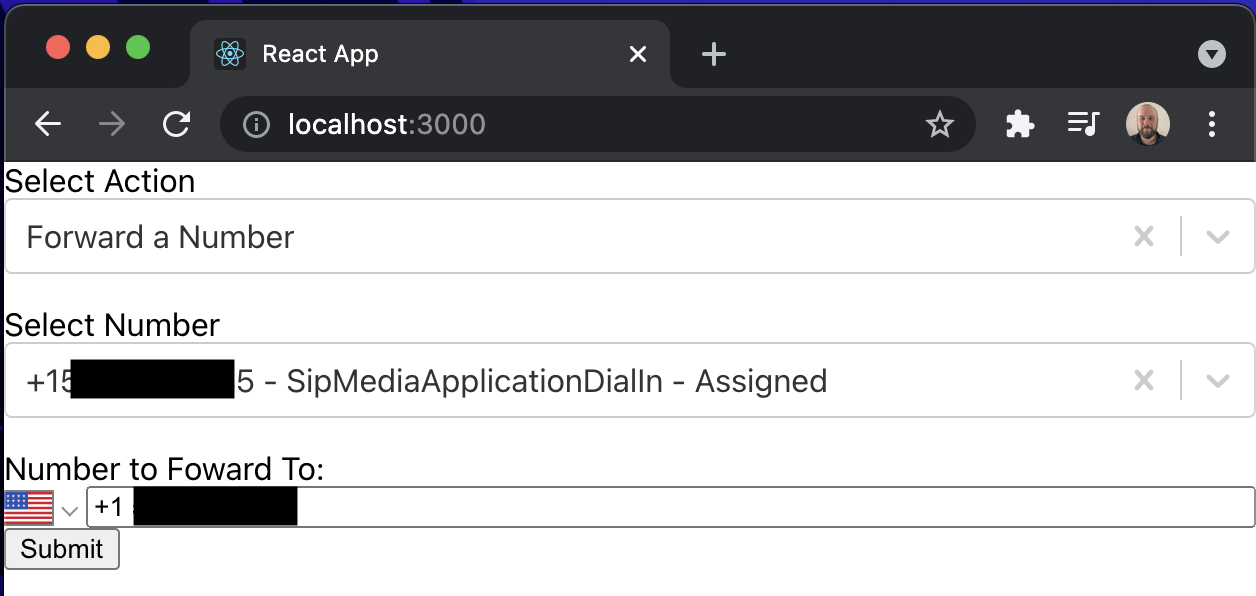
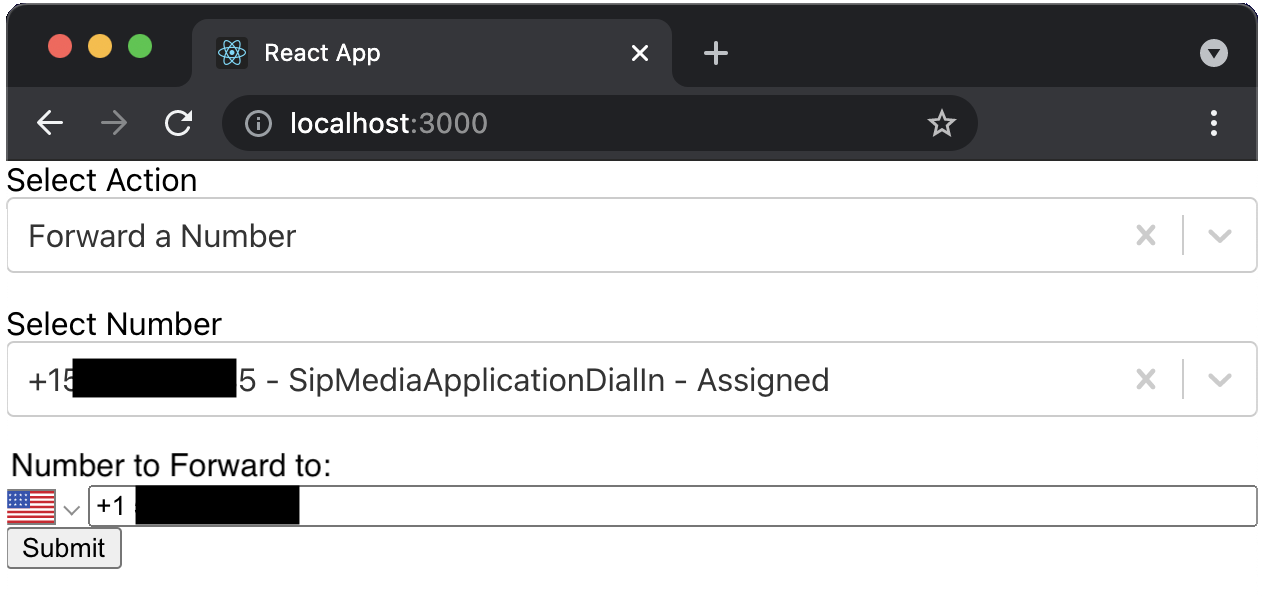
Pythonic improvements, revised diagrams, typo fixes

diff --git a/client/src/App.js b/client/src/App.js
@@ -221,7 +221,7 @@ const App = () => {
 									<div>
 										<form onSubmit={handleSubmitForward}>
 											<label>
-												Number to Foward To:
+												Number to Forward to:
 												<PhoneInput
 													placeholder="Enter phone number"
 													defaultCountry="US"

diff --git a/src/smaLambda/callForwardingSMA.py b/src/smaLambda/callForwardingSMA.py
@@ -18,68 +18,62 @@ from botocore.client import Config
 # Set LogLevel using environment variable, fallback to INFO if not present
 logger = logging.getLogger()
 try:
-    log_level = os.environ["LogLevel"]
-    if log_level not in ["INFO", "DEBUG"]:
-        log_level = "INFO"
+    log_level = os.environ['LogLevel']
+    if log_level not in ['INFO', 'DEBUG']:
+        log_level = 'INFO'
 except:
-    log_level = "INFO"
+    log_level = 'INFO'
 logger.setLevel(log_level)
 
 # Load environment variables
-forwarding_table_name = os.environ["CallForwardingTableName"]
-wav_bucket = os.environ["WavBucketName"]
-loop_flag = os.environ["LoopGreetingWhileRinging"]
+forwarding_table_name = os.environ['CallForwardingTableName']
+wav_bucket = os.environ['WavBucketName']
+loop_flag = os.environ['LoopGreetingWhileRinging']
 
 # Setup DynamoDB interface client to query number mappings
-client_config = Config(connect_timeout=2, read_timeout=2, retries={"max_attempts": 5})
-dynamodb_client = boto3.client("dynamodb", config=client_config, region_name=os.environ["AWS_REGION"])
+client_config = Config(connect_timeout=2, read_timeout=2, retries={'max_attempts': 5})
+dynamodb_client = boto3.client('dynamodb', config=client_config, region_name=os.environ["AWS_REGION"])
 
 
 # This is the entry point for all incoming events from Chime SipMediaApplications
 def lambda_handler(event, context):
 
     # Extract all the elements from the event that we will need for processing
-    event_type = event["InvocationEventType"]
-    participants = event["CallDetails"]["Participants"]
-    call_id = participants[0]["CallId"]
-    to_number = participants[0]["To"]
-    from_number = participants[0]["From"]
+    event_type = event['InvocationEventType']
+    participants = event['CallDetails']['Participants']
+    call_id = participants[0]['CallId']
+    to_number = participants[0]['To']
+    from_number = participants[0]['From']
 
     # For consistent and detail logging, set a prefix format that can be used by all functions
     global log_prefix
-    log_prefix = "Call-ID:{} {} From:[{}] To:[{}]: ".format(call_id, event_type, from_number, to_number)
+    log_prefix = 'Call-ID:{} {} From:[{}] To:[{}]: '.format(call_id, event_type, from_number, to_number)
 
-    if event_type == "NEW_INBOUND_CALL":
-        logger.info("RECV {} {}".format(log_prefix, "New inbound call initiated"))
+    if event_type == 'NEW_INBOUND_CALL':
+        logger.info('RECV {} {}'.format(log_prefix, 'New inbound call initiated'))
         return new_call_handler(call_id, to_number)
 
-    elif event_type == "HANGUP":
-        logger.info("RECV {} {}".format(log_prefix, "Hangup event received"))
+    elif event_type == 'HANGUP':
+        logger.info('RECV {} {}'.format(log_prefix, 'Hangup event received'))
         return hangup_handler(participants)
 
-    elif event_type == "RINGING":
-        logger.info("RECV {} {}".format(log_prefix, "Rining event received"))
+    elif event_type == 'RINGING':
+        logger.info('RECV {} {}'.format(log_prefix, 'Ringing event received'))
         return ()
 
-    elif event_type == "ACTION_SUCCESSFUL":
+    elif event_type == 'ACTION_SUCCESSFUL':
         return action_success_handler(event)
 
-    elif event_type == "ACTION_FAILED":
-        logger.error(
-            "RECV {} {} {} {}".format(
-                log_prefix, event["ActionData"]["ErrorType"], event["ActionData"]["ErrorMessage"], json.dumps(event)
-            )
-        )
+    elif event_type == 'ACTION_FAILED':
+        logger.error('RECV {} {} {} {}'.format(log_prefix, event['ActionData']['ErrorType'], event['ActionData']['ErrorMessage'], json.dumps(event)))
         return unable_to_connect(call_id)
 
-    elif event_type == "INVALID_LAMBDA_RESPONSE":
-        logger.error(
-            "RECV {} : {} : {} : {}".format(log_prefix, event["ErrorType"], event["ErrorMessage"], json.dumps(event))
-        )
+    elif event_type == 'INVALID_LAMBDA_RESPONSE':
+        logger.error('RECV {} : {} : {} : {}'.format(log_prefix, event['ErrorType'], event['ErrorMessage'], json.dumps(event)))
         return unable_to_connect(call_id)
 
     else:
-        logger.error("RECV {} [Unhandled event] {}".format(log_prefix, json.dumps(event)))
+        logger.error('RECV {} [Unhandled event] {}'.format(log_prefix, json.dumps(event)))
         return unable_to_connect(call_id)
 
 
@@ -87,34 +81,27 @@ def new_call_handler(call_id, dialed_number):
     destination_number = ddb_get_destination(dialed_number)
     if destination_number:
 
-        if loop_flag == "True":
+        if loop_flag == 'True':
             # Loop Audio Greeting until Outbound call answers, cut greeting audio as soon as Outbound call answers
-            logger.info("SEND {} {}".format(log_prefix, "Sending CallAndBridge action with greeting ringback"))
-            return respond(
-                call_and_bridge_to_pstn_with_greeting(
-                    dialed_number, destination_number, "please_wait_while_we_try_to_connect_you.wav"
-                )
-            )
+            logger.info('SEND {} {}'.format(log_prefix, 'Sending CallAndBridge action with greeting ringback'))
+            return respond(call_and_bridge_to_pstn_with_greeting(dialed_number, destination_number, 'please_wait_while_we_try_to_connect_you.wav'))
 
         else:
             # Play Audio Greeting fully and then bridge to Outbound PSTN
-            logger.info("SEND {} {}".format(log_prefix, "Sending PlayAudio, CallAndBridge actions"))
-            return respond(
-                play_audio(call_id, "please_wait_while_we_try_to_connect_you.wav"),
-                call_and_bridge_to_pstn(dialed_number, destination_number),
-            )
+            logger.info('SEND {} {}'.format(log_prefix, 'Sending PlayAudio, CallAndBridge actions'))
+            return respond(play_audio(call_id, 'please_wait_while_we_try_to_connect_you.wav'), call_and_bridge_to_pstn(dialed_number, destination_number))
 
     else:
-        logger.info("NONE {} {}".format(log_prefix, "No entry found in database - sending hangup"))
+        logger.info('NONE {} {}'.format(log_prefix, 'No entry found in database - sending hangup'))
         return unable_to_connect(call_id)
 
 
 def hangup_handler(participants):
     # When we receive a hangup event, we make sure to tear down any calls still connected
     for call in participants:
-        if call["Status"] == "Connected":
-            return respond(hangup_action(call["CallId"]))
-    logger.info("NONE {} All calls have been hungup".format(log_prefix))
+        if call['Status'] == 'Connected':
+            return respond(hangup_action(call['CallId']))
+    logger.info('NONE {} All calls have been hungup'.format(log_prefix))
     return respond()
 
 
@@ -124,76 +111,109 @@ def ddb_get_destination(to_number):
     try:
         response = dynamodb_client.get_item(
             Key={
-                "dialed_number": {
-                    "S": str(to_number),
+                'dialed_number': {
+                    'S': str(to_number),
                 },
             },
             TableName=forwarding_table_name,
         )
-        if "Item" in response:
-            return response["Item"]["destination_number"]["S"]
+        if 'Item' in response:
+            return response['Item']['destination_number']['S']
     except Exception as err:
-        logger.error("DynamoDB Query error: failed to fetch data from table. Error: ", exc_info=err)
+        logger.error('DynamoDB Query error: failed to fetch data from table. Error: ', exc_info=err)
         return None
 
 
 # If we receive an ACTION_SUCCESSFUL event we can take further actions,
 # or default to responding with a NoOp (empty set of actions)
 def action_success_handler(event):
-    action = event["ActionData"]["Type"]
-    if action == "Answer":
+    action = event['ActionData']['Type']
+    if action == 'Answer':
         return respond()
-    elif action == "Hangup":
+    elif action == 'Hangup':
         return respond()
-    elif action == "CallAndBridge":
-        logger.info("RECV {} Connected to Outbound call".format(log_prefix))
+    elif action == 'CallAndBridge':
+        logger.info('RECV {} Connected to Outbound call'.format(log_prefix))
         return respond()
     return respond()
 
 
 # A wrapper for all responses back to the service
 def respond(*actions):
-    return {"SchemaVersion": "1.0", "Actions": [*actions]}
+    return {
+        'SchemaVersion': '1.0',
+        'Actions': [*actions]
+    }
 
 
 # SipResponseCode can be parameterized. Supported values: '480' - Unavailable, '486' - Busy, '0' - Terminated
 # To read more on customizing the hangup action, see https://docs.aws.amazon.com/chime/latest/dg/hangup.html
 def hangup_action(call_id):
-    logger.info("SEND {} {} {}".format(log_prefix, "Sending HANGUP action to Call-ID", call_id))
-    return {"Type": "Hangup", "Parameters": {"CallId": call_id, "SipResponseCode": "0"}}
+    logger.info('SEND {} {} {}'.format(log_prefix, 'Sending HANGUP action to Call-ID', call_id))
+    return {
+        'Type': 'Hangup',
+        'Parameters': {
+            'CallId': call_id,
+            'SipResponseCode': '0'
+        }
+    }
 
 
 # Used for playing audio greetings to callers - files should be stored in S3, with the bucket name as a Lambda environment variable
 def play_audio(call_id, audio_file):
     return {
-        "Type": "PlayAudio",
-        "Parameters": {"CallId": call_id, "AudioSource": {"Type": "S3", "BucketName": wav_bucket, "Key": audio_file}},
+        'Type': 'PlayAudio',
+        'Parameters': {
+            'CallId': call_id,
+            'AudioSource': {
+                'Type': 'S3',
+                'BucketName': wav_bucket,
+                'Key': audio_file
+            }
+        }
     }
 
 
 def call_and_bridge_to_pstn(caller_id, destination):
     return {
-        "Type": "CallAndBridge",
-        "Parameters": {
-            "CallTimeoutSeconds": 30,
-            "CallerIdNumber": caller_id,
-            "Endpoints": [{"Uri": destination, "BridgeEndpointType": "PSTN"}],
-        },
+        'Type': 'CallAndBridge',
+        'Parameters': {
+            'CallTimeoutSeconds': 30,
+            'CallerIdNumber': caller_id,
+            'Endpoints':
+            [
+                {
+                    'Uri': destination,
+                    'BridgeEndpointType': 'PSTN'
+                }
+            ]
+        }
     }
 
 
 def call_and_bridge_to_pstn_with_greeting(caller_id, destination, audio_file):
     return {
-        "Type": "CallAndBridge",
-        "Parameters": {
-            "CallTimeoutSeconds": 30,
-            "CallerIdNumber": caller_id,
-            "RingbackTone": {"Type": "S3", "BucketName": os.environ["WavBucketName"], "Key": audio_file},
-            "Endpoints": [{"Uri": destination, "BridgeEndpointType": "PSTN"}],
-        },
+        'Type': 'CallAndBridge',
+        'Parameters': {
+            'CallTimeoutSeconds': 30,
+            'CallerIdNumber': caller_id,
+            'RingbackTone': {
+                    'Type': 'S3',
+                    'BucketName': os.environ['WavBucketName'],
+                    'Key': audio_file
+                },
+            'Endpoints':
+            [
+                {
+                    'Uri': destination,
+                    'BridgeEndpointType': 'PSTN'
+                }
+            ]
+        }
     }
 
 
 # A predefined set of actions that plays an error to the caller and then hangs up
 def unable_to_connect(call_id):
-    return respond(play_audio(call_id, "we_were_unable_to_connect_your_call.wav"), hangup_action(call_id))
+    return respond(play_audio(call_id, 'we_were_unable_to_connect_your_call.wav'), hangup_action(call_id))
+

diff --git a/utils/createWav.py b/utils/createWav.py
@@ -4,37 +4,40 @@ import wave
 import argparse
 import sys
 
-polly = boto3.client("polly")
+polly = boto3.client('polly', region_name='us-east-1')
 
-
-def createPolly(pollyText, fileName):
-    response = polly.synthesize_speech(OutputFormat="pcm", Text=pollyText, SampleRate="8000", VoiceId="Joanna")
+def create_polly (polly_text, file_name):
+    response = polly.synthesize_speech(
+        OutputFormat='pcm',
+        Text = polly_text,
+        SampleRate = '8000',
+        VoiceId = 'Joanna'
+    )    
 
     if "AudioStream" in response:
-        outputWav = "../wav_files/" + fileName + ".wav"
-        with wave.open(outputWav, "wb") as wav_file:
-            wav_file.setparams((1, 2, 8000, 0, "NONE", "NONE"))
-            wav_file.writeframes(response["AudioStream"].read())
+        output_wav = '../wav_files/' + file_name + '.wav'
+        with wave.open(output_wav, 'wb') as wav_file:
+            wav_file.setparams((1, 2, 8000, 0, 'NONE', 'NONE'))
+            wav_file.writeframes(response['AudioStream'].read())
 
-    return outputWav
+    return output_wav
 
-
-parse_msg = "Simple utility to create wav files for SMA via Polly"
-parser = argparse.ArgumentParser(prog="createWav.py", description=parse_msg)
-parser.add_argument("-file", help="Name of file to be created (without .wav)")
-parser.add_argument("-text", help="Text of the audio to be created in quotes")
+parse_msg = 'Simple utility to create wav files for SMA via Polly'
+parser = argparse.ArgumentParser(prog = 'createWav.py', description = parse_msg)
+parser.add_argument('-file', help='Name of file to be created (without .wav)')
+parser.add_argument('-text', help='Text of the audio to be created in quotes')
 args = parser.parse_args()
 
-fileName = args.file
-pollyText = args.text
+file_name = args.file
+polly_text = args.text
 
-if not fileName:
-    print("Filename is rquired")
+if not file_name:
+    print('Filename is required')
     sys.exit()
 
-if not pollyText:
-    print("Text is required")
+if not polly_text:
+    print('Text is required')
     sys.exit()
 
-wavFile = createPolly(pollyText, fileName)
-print("wav file created: " + wavFile)
+wav_file = create_polly(polly_text, file_name)
+print('wav file created: ' + wav_file)

diff --git a/README.md b/README.md
@@ -34,8 +34,9 @@ This demo will build and configure several services within AWS so that you can f
 ## Description
 This deployment will build everything required to forward calls and change numbers between different Amazon Chime Product Types.  Phone Numbers within Amazon Chime Phone Inventory can have a Product Type of `SipMediaApplicationDialIn` or `VoiceConnector`. The local client can update the Product Type of the phone numbers in the Phone Inventory and update a DynanamoDB table with call forwarding information. A Lambda function associated with the SIP Media Application is used to forward numbers using the [CallandBridge](https://docs.aws.amazon.com/chime/latest/dg/call-and-bridge.html) action.
 
+
 ## Resources Created
-- handlerLambda - A Python Lambda that updates the Product Type of numbers in the Amazon Chime Phone Inventory and a DynamoDB
+- handlerLambda - A Python Lambda that updates the Product Type of numbers in the Amazon Chime Phone Inventory and a DynamoDB. This is fronted by an API Gateway. 
 - smaLambda - A Python Lambda that is associated with a SIP Media Application used to forward calls using the CallandBridge action
 - calledNumber Table - A DynamoDB table used to track where numbers should be forwarded to.  Updated from the local client and queried by the smaLambda
 - outgoingWav Bucket - S3 bucket to store wav files for playing customized messages
@@ -47,6 +48,7 @@ This deployment will build everything required to forward calls and change numbe
 ## Additional Resources
 - utils\createWav.py - Python script to create wav files using Polly
 - wav_files\\* - wav files uploaded to outgoingWav bucket for use with SMA
+
 
 ## Operation
 
@@ -110,4 +112,5 @@ Using the local client, remove an existing call forward. This removes the phone 
 
 ## Cleanup
 To clean up this demo: `cdk destroy`.  Additionally, Chime SIP Media Applications, rules, voice connectors, and phone numbers should be manually removed in the Chime Console.
+
 
